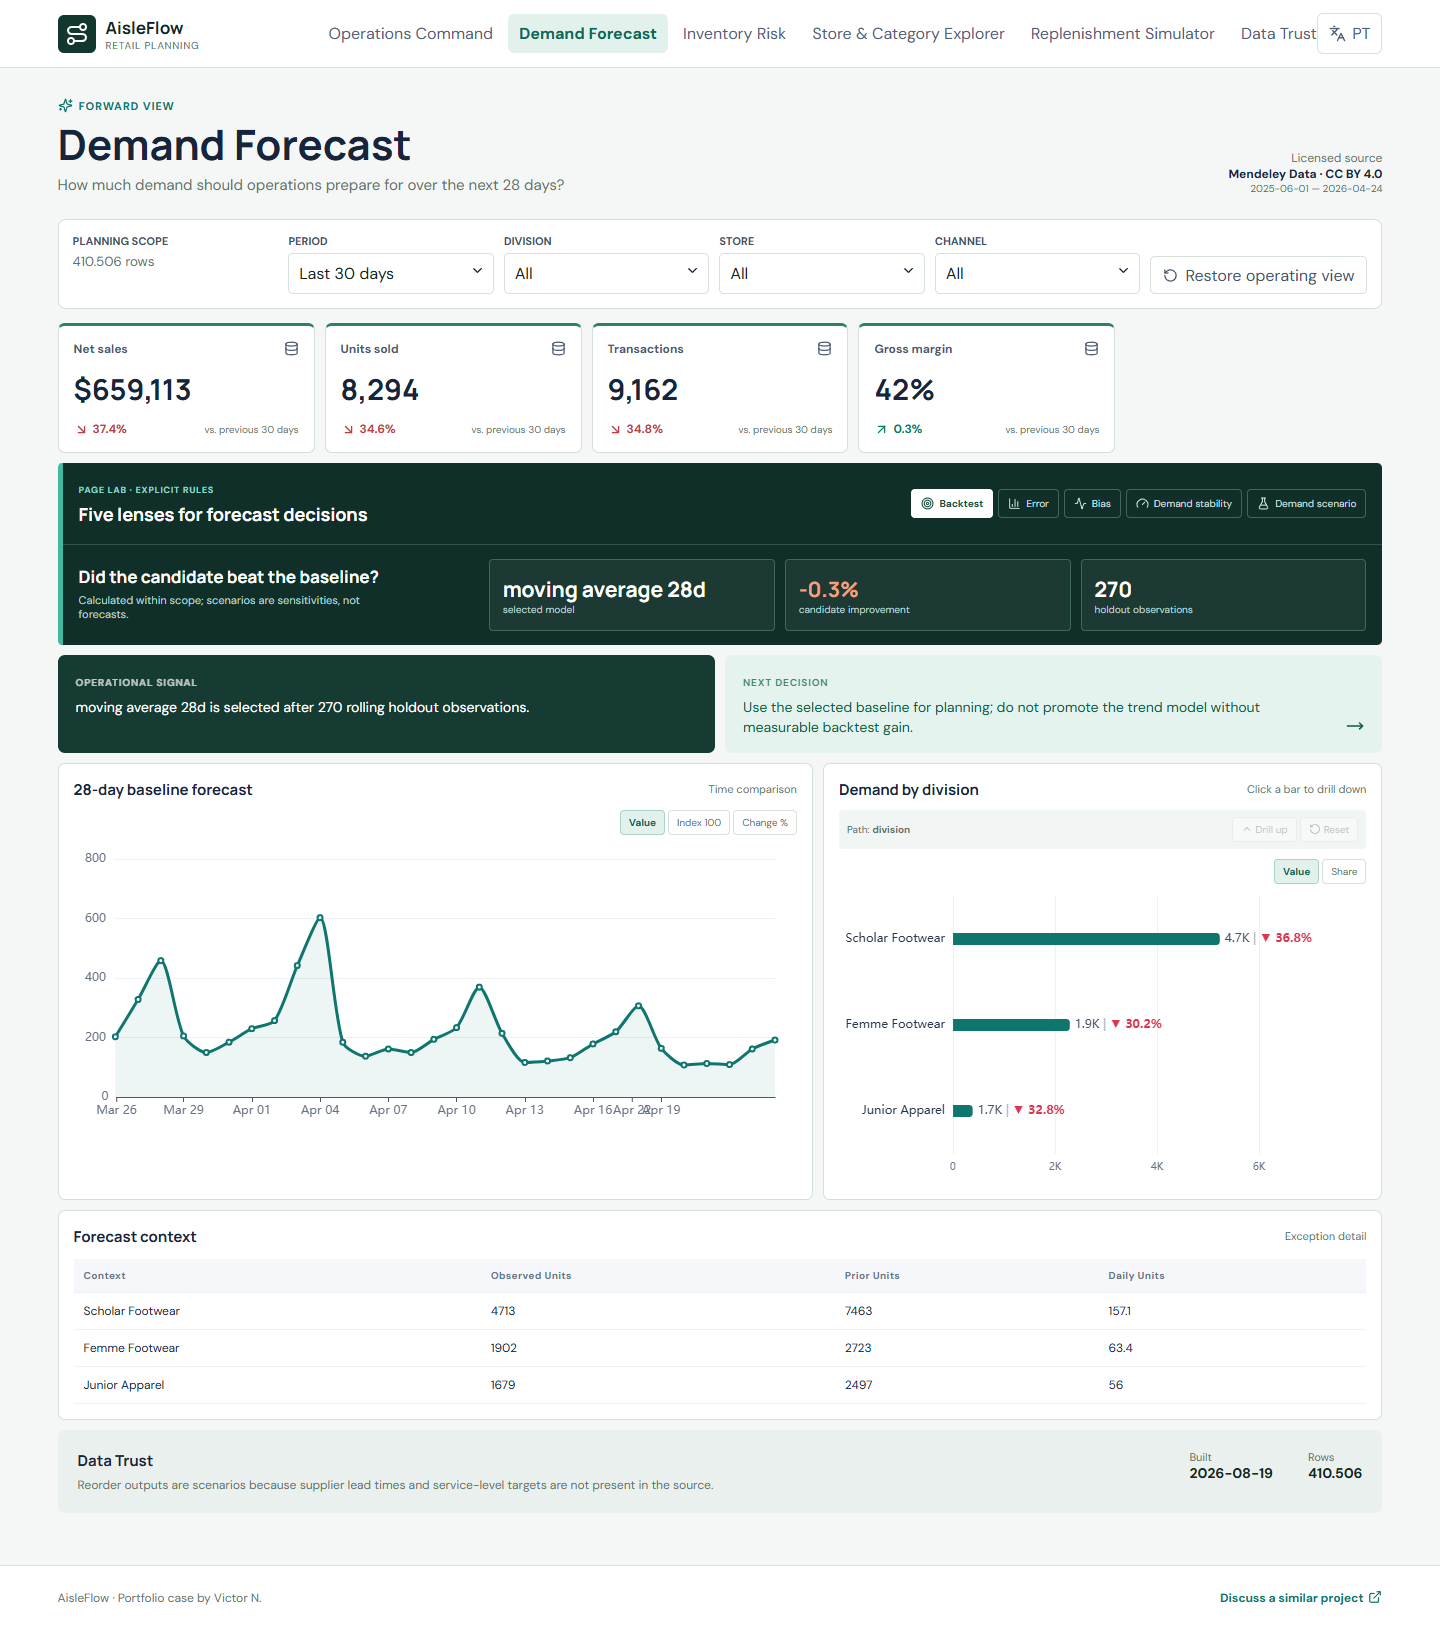
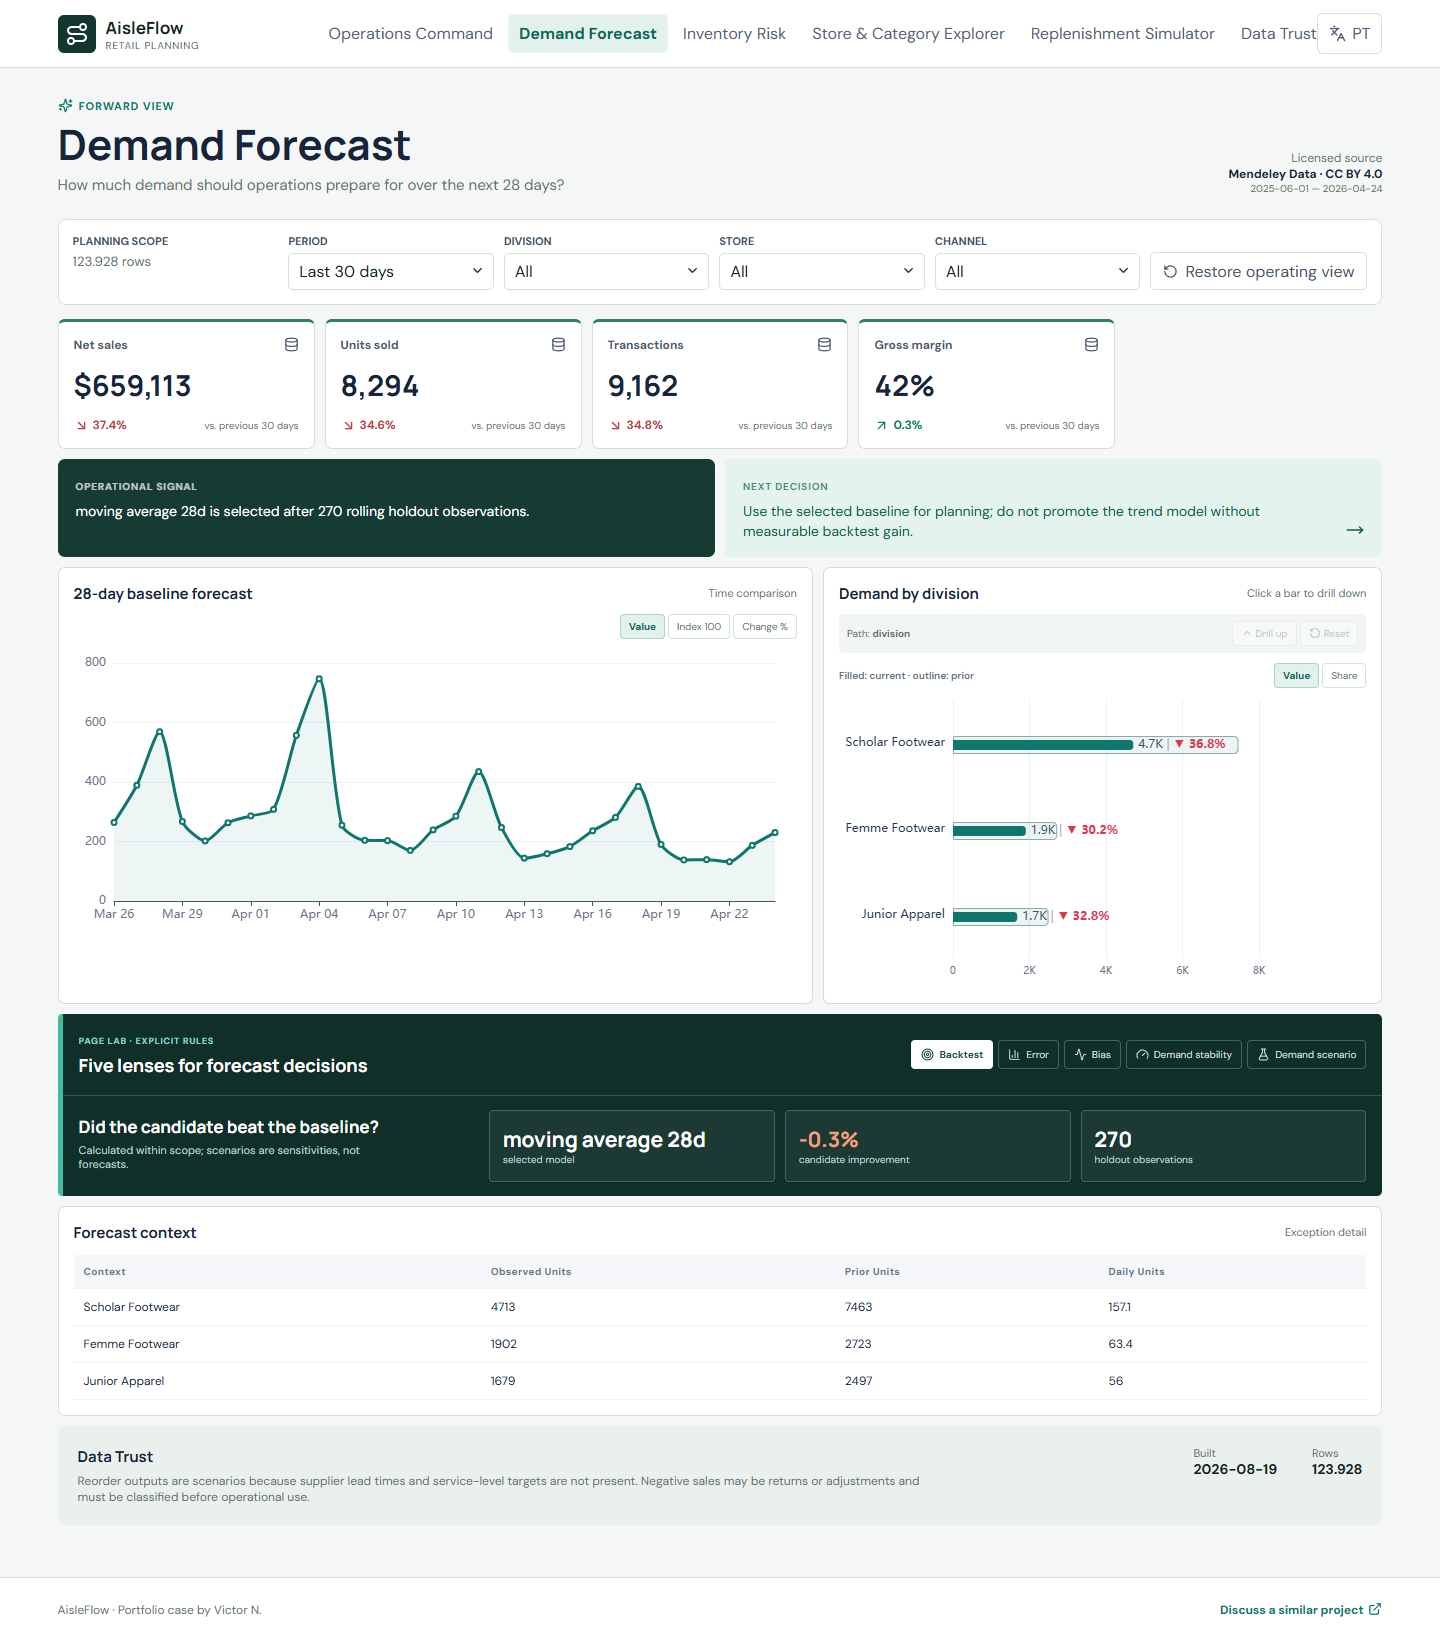
Improve dashboard hierarchy and visual comparisons

diff --git a/src/components.tsx b/src/components.tsx
@@ -41,10 +41,12 @@ export function BarChart({ data, lang, onSelect }: { data: BreakdownRow[]; lang:
   const [share,setShare]=useState(false)
   const sorted = [...data].sort((a,b) => a.value - b.value).slice(-8)
   const compact = (value: number) => new Intl.NumberFormat(lang === 'pt' ? 'pt-BR' : 'en-US', { notation: 'compact', maximumFractionDigits: 1 }).format(value)
-  type LabelPoint={data:{value:number;delta:number;hasPrevious?:boolean;isNew?:boolean}}
-  const total=sorted.reduce((s,r)=>s+r.value,0),previousTotal=sorted.reduce((s,r)=>s+(r.previous??0),0),format=(v:number)=>share?`${v.toFixed(1)}%`:compact(v),seriesData=sorted.map(row=>{const value=share?(total?100*row.value/total:0):row.value,hasPrevious=row.previous!==undefined,previous=share?(previousTotal?100*(row.previous??0)/previousTotal:0):(row.previous??0),delta=previous?100*(value-previous)/Math.abs(previous):0;return{value,delta,hasPrevious,isNew:hasPrevious&&previous===0}}),comparison=(p:LabelPoint,rich=false)=>!p.data.hasPrevious?(rich?`{neutral|${lang==='pt'?'sem anterior':'no prior'}}`:(lang==='pt'?'sem anterior':'no prior')):p.data.isNew?(rich?`{new|${lang==='pt'?'nova':'new'}}`:(lang==='pt'?'nova':'new')):rich?`{${p.data.delta>=0?'up':'down'}|${p.data.delta>=0?'▲':'▼'} ${Math.abs(p.data.delta).toFixed(1)}%}`:`${p.data.delta>=0?'▲':'▼'} ${Math.abs(p.data.delta).toFixed(1)}%`,label=(p:LabelPoint)=>`{value|${format(p.data.value)}} {divider||} ${comparison(p,true)}`
-  const option={animationDuration:350,grid:{left:12,right:108,top:12,bottom:12,containLabel:true},tooltip:{trigger:'item',formatter:(p:{name:string}&LabelPoint)=>`${p.name}<br/>${format(p.data.value)} | ${comparison(p)}`},xAxis:{type:'value',splitNumber:3,max:share?100:undefined,splitLine:{lineStyle:{color:'#edf1f7'}},axisLabel:{color:'#697386',fontSize:10,hideOverlap:true,formatter:format}},yAxis:{type:'category',data:sorted.map(d=>d.name),axisLine:{show:false},axisTick:{show:false},axisLabel:{color:'#27364b',width:130,overflow:'truncate'}},series:[{type:'bar',data:seriesData,barWidth:12,itemStyle:{color:'#0f766e',borderRadius:[0,4,4,0]},emphasis:{disabled:true},label:{show:true,position:'right',formatter:label,rich:{value:{color:'#415269'},divider:{color:'#aab4c3'},up:{color:'#07855b',fontWeight:700},down:{color:'#d9364f',fontWeight:700},new:{color:'#1f6feb',fontWeight:700},neutral:{color:'#7c8798'}}}}]}
-  return <><div className="chart-modes"><button className={!share?'active':''} onClick={()=>setShare(false)}>{lang==='pt'?'Valor':'Value'}</button><button className={share?'active':''} onClick={()=>setShare(true)}>{lang==='pt'?'Participação':'Share'}</button></div><div className="chart-viewport"><ReactEChartsCore echarts={echarts} option={option} onEvents={onSelect?{click:(params:{name:string})=>onSelect(params.name)}:undefined} style={{height:300,width:'100%'}}/></div></>
+  type LabelPoint={data:{value:number;previous:number;delta:number;hasPrevious?:boolean;isNew?:boolean}}
+  const total=sorted.reduce((s,r)=>s+r.value,0),previousTotal=sorted.reduce((s,r)=>s+(r.previous??0),0),format=(v:number)=>share?`${v.toFixed(1)}%`:compact(v),seriesData=sorted.map(row=>{const value=share?(total?100*row.value/total:0):row.value,hasPrevious=row.previous!==undefined,previous=share?(previousTotal?100*(row.previous??0)/previousTotal:0):(row.previous??0),delta=previous?100*(value-previous)/Math.abs(previous):0;return{value,previous,delta,hasPrevious,isNew:hasPrevious&&previous===0}}),comparison=(p:LabelPoint,rich=false)=>!p.data.hasPrevious?(rich?`{neutral|${lang==='pt'?'sem anterior':'no prior'}}`:(lang==='pt'?'sem anterior':'no prior')):p.data.isNew?(rich?`{new|${lang==='pt'?'nova':'new'}}`:(lang==='pt'?'nova':'new')):rich?`{${p.data.delta>=0?'up':'down'}|${p.data.delta>=0?'▲':'▼'} ${Math.abs(p.data.delta).toFixed(1)}%}`:`${p.data.delta>=0?'▲':'▼'} ${Math.abs(p.data.delta).toFixed(1)}%`,label=(p:LabelPoint)=>`{value|${format(p.data.value)}} {divider||} ${comparison(p,true)}`
+  const priorSeries={name:lang==='pt'?'Período anterior':'Prior period',type:'bar',data:seriesData.map(row=>row.hasPrevious?row.previous:null),barWidth:18,itemStyle:{color:'rgba(15,118,110,.08)',borderColor:'#8aa9a4',borderWidth:1,borderRadius:[0,4,4,0]},silent:true,tooltip:{show:false},z:1}
+  const currentSeries={name:lang==='pt'?'Período atual':'Current period',type:'bar',data:seriesData,barWidth:10,barGap:'-78%',itemStyle:{color:'#0f766e',borderRadius:[0,4,4,0]},emphasis:{disabled:true},z:2,label:{show:true,position:'right',formatter:label,rich:{value:{color:'#415269'},divider:{color:'#aab4c3'},up:{color:'#07855b',fontWeight:700},down:{color:'#d9364f',fontWeight:700},new:{color:'#1f6feb',fontWeight:700},neutral:{color:'#7c8798'}}}}
+  const option={animationDuration:350,grid:{left:12,right:108,top:12,bottom:12,containLabel:true},tooltip:{trigger:'item',formatter:(p:{name:string}&LabelPoint)=>`${p.name}<br/>${format(p.data.value)} | ${comparison(p)}`},xAxis:{type:'value',splitNumber:3,max:share?100:undefined,splitLine:{lineStyle:{color:'#edf1f7'}},axisLabel:{color:'#697386',fontSize:10,hideOverlap:true,formatter:format}},yAxis:{type:'category',data:sorted.map(d=>d.name),axisLine:{show:false},axisTick:{show:false},axisLabel:{color:'#27364b',width:130,overflow:'truncate'}},series:[priorSeries,currentSeries]}
+  return <><div className="chart-modes"><small className="comparison-key">{lang==='pt'?'Cheio: atual · contorno: anterior':'Filled: current · outline: prior'}</small><button className={!share?'active':''} onClick={()=>setShare(false)}>{lang==='pt'?'Valor':'Value'}</button><button className={share?'active':''} onClick={()=>setShare(true)}>{lang==='pt'?'Participação':'Share'}</button></div><div className="chart-viewport"><ReactEChartsCore echarts={echarts} option={option} onEvents={onSelect?{click:(params:{name:string})=>onSelect(params.name)}:undefined} style={{height:300,width:'100%'}}/></div></>
 }
 
 export function DataGrid({ rows }: { rows: Record<string, string | number>[] }) {

diff --git a/src/styles.css b/src/styles.css
@@ -14,3 +14,5 @@ body{background:#f4f7f5}.brand-mark{border-radius:6px;background:#12372e}.topbar
 @media(max-width:1000px){.filterbar{grid-template-columns:1fr 1fr}.filter-heading{grid-column:1/-1}}@media(max-width:640px){.filterbar{grid-template-columns:1fr}.filter-heading{grid-column:auto}}
 .chart-viewport{width:100%;min-width:0;overflow:hidden}.query-error{margin:10px 0;padding:11px 14px;border:1px solid #e2a9ad;background:#fff2f3;color:var(--red);border-radius:5px}.is-loading{opacity:.58}.simulator{margin:10px 0;display:grid;grid-template-columns:260px 1fr 240px;gap:20px;align-items:center;padding:17px 20px;background:#102f28;color:#fff;border-radius:5px;border-left:5px solid #43b99d}.sim-title{display:flex;gap:12px;align-items:center}.sim-title span{font-size:9px;letter-spacing:.08em;color:#8ed7c4}.sim-title h2{font:700 17px Manrope;margin:4px 0}.sim-controls{display:grid;grid-template-columns:repeat(3,1fr);gap:12px}.sim-controls label{font-size:11px;color:#c8ded7;display:grid;grid-template-columns:1fr auto;gap:6px}.sim-controls input{grid-column:1/-1;accent-color:#43b99d;width:100%}.sim-output{border-left:1px solid #41665d;padding-left:18px;display:grid;grid-template-columns:auto 1fr;gap:2px 8px}.sim-output small{color:#b8d3cc}.sim-output strong{grid-column:1/-1;font:700 21px Manrope;margin-top:3px}.sim-output em{grid-column:1/-1;color:#8eaaa2;font-size:9px;font-style:normal}@media(max-width:1000px){.simulator{grid-template-columns:1fr}.sim-output{border-left:0;padding-left:0}.sim-controls{grid-template-columns:1fr}}
 .ops-lab{margin:10px 0;background:#102f28;color:#fff;border-radius:5px;overflow:hidden;border-left:5px solid #43b99d}.ops-lab-head{padding:14px 16px;display:flex;justify-content:space-between;align-items:center;gap:18px;border-bottom:1px solid #31544c}.ops-lab-head span{font-size:9px;letter-spacing:.08em;color:#8ed7c4;font-weight:700}.ops-lab-head h2{font:700 18px Manrope;margin:4px 0}.ops-lab-head>div:last-child{display:flex;gap:5px;flex-wrap:wrap;justify-content:flex-end}.ops-lab-head button{display:flex;align-items:center;gap:5px;padding:7px 9px;border:1px solid #41665d;background:transparent;color:#c8ded7;border-radius:4px;font-size:10px;cursor:pointer}.ops-lab-head button svg{width:13px;height:13px}.ops-lab-head button.active{background:#fff;color:#174d41;border-color:#fff;font-weight:700}.ops-lab-body{min-height:100px;padding:14px 16px;display:grid;grid-template-columns:1.4fr repeat(3,1fr);gap:10px}.ops-copy{display:flex;flex-direction:column;justify-content:center}.ops-copy b{font:700 17px Manrope}.ops-copy p{font-size:11px;color:#b8d3cc;margin:5px 0;max-width:300px}.ops-lab-body>article,.ops-lab-body>label{padding:11px 13px;border:1px solid #41665d;background:rgba(255,255,255,.05);border-radius:4px;display:flex;flex-direction:column;justify-content:center}.ops-lab-body article strong{font:700 21px Manrope}.ops-lab-body article span{font-size:10px;color:#b8d3cc}.ops-lab-body article.risk{border-color:#d98b68}.ops-lab-body>label{gap:9px;font-size:11px}.ops-lab-body>label span{display:flex;justify-content:space-between}.ops-lab-body input{width:100%;accent-color:#43b99d}.ops-driver-list{grid-column:2/-1;display:grid;gap:7px;align-content:center}.ops-driver-list>div{display:grid;grid-template-columns:105px 1fr 90px;gap:9px;align-items:center;font-size:10px}.ops-driver-list i{height:7px;background:#31544c;border-radius:4px;overflow:hidden}.ops-driver-list i b{display:block;height:100%;background:#43b99d}.ops-driver-list strong{text-align:right}.positive{color:#68d7bb}.negative{color:#f2a081}@media(max-width:1000px){.ops-lab-head{align-items:flex-start;flex-direction:column}.ops-lab-head>div:last-child{justify-content:flex-start}.ops-lab-body{grid-template-columns:1fr 1fr}.ops-copy,.ops-driver-list{grid-column:1/-1}}@media(max-width:640px){.ops-lab-head>div:last-child{display:grid;grid-template-columns:1fr 1fr;width:100%}.ops-lab-head button{justify-content:center}.ops-lab-body{grid-template-columns:1fr}.ops-driver-list>div{grid-template-columns:76px 1fr 72px}}
+.comparison-key{align-self:center;margin-right:auto;color:#66758a;font-size:10px;font-weight:600;white-space:nowrap}
+.chart-viewport{max-width:100%}.chart-viewport>div,.chart-viewport canvas{max-width:100%!important}

diff --git a/src/App.tsx b/src/App.tsx
@@ -59,9 +59,9 @@ export default function App() {
       {queryState==='loading'&&<div className="loading" role="status">{lang==='pt'?'Calculando o recorte selecionado...':'Calculating selected scope...'}</div>}
       {queryState==='error'&&<div className="query-error" role="alert">{lang==='pt'?'Não foi possível recalcular o recorte.':'The selected scope could not be recalculated.'}</div>}
       {queryState==='ready'&&mart&&<><section className="metrics">{metrics.map(metric => {const isSnapshot=snapshotMetrics.has(metric.id);return <MetricCard key={metric.id} metric={metric} lang={lang} prior={isSnapshot?(lang==='pt'?'snapshot atual':'current snapshot'):comparisonLabel} comparisonAvailable={comparisonAvailable&&!isSnapshot} />})}</section>
-      <PageInsight pageId={page.id} values={mart.current} trend={trend} breakdown={breakdown} detail={detail} forecast={forecast} lang={lang}/>
       <section className="decision-strip"><DecisionNote title={t.finding}>{finding}</DecisionNote><DecisionNote title={t.action} action>{action}</DecisionNote></section>
       <section className="analysis-grid"><article className="panel wide"><div className="panel-title"><h2>{page.trendTitle[lang]}</h2><span>{lang==='pt'?'Comparação temporal':'Time comparison'}</span></div><TrendChart data={trend} lang={lang} /></article><article className="panel"><div className="panel-title"><h2>{page.breakdownTitle[lang]}</h2><span>{lang==='pt'?'Clique em uma barra para detalhar':'Click a bar to drill down'}</span></div><div className="drillbar"><span>{lang==='pt'?'Caminho':'Path'}: <b>{mart?.context.dimension??'division'}</b>{drillPath.map(item=><i key={`${item.dimension}-${item.value}`}> / {item.value}</i>)}</span><div><button disabled={!drillPath.length} onClick={()=>setDrillPath(path=>path.slice(0,-1))}><ChevronUp/>{lang==='pt'?'Voltar nível':'Drill up'}</button><button disabled={!drillPath.length} onClick={()=>setDrillPath([])}><RotateCcw/>{lang==='pt'?'Início':'Reset'}</button></div></div><BarChart data={breakdown} lang={lang} onSelect={drill}/></article></section>
+      <PageInsight pageId={page.id} values={mart.current} trend={trend} breakdown={breakdown} detail={detail} forecast={forecast} lang={lang}/>
       <section className="panel detail"><div className="panel-title"><h2>{page.detailTitle[lang]}</h2><span>{t.details}</span></div><DataGrid rows={detail} /></section>
       <section className="trust"><div><h2>{t.trust}</h2><p>{data.meta.limitations[lang]}</p>{page.id === 'trust' && <MartVerifier file="mart_inventory_risk.parquet" lang={lang}/>}</div><div><span>Built</span><b>{data.meta.builtAt}</b></div><div><span>Rows</span><b>{data.meta.rows.toLocaleString()}</b></div></section>
       </>}

diff --git a/docs/DASHBOARD_QUALITY_REVIEW.md b/docs/DASHBOARD_QUALITY_REVIEW.md
@@ -1,0 +1,25 @@
+# Dashboard quality review
+
+## Decision contract
+
+| Page | Primary question | Main evidence | Intended decision |
+| --- | --- | --- | --- |
+| Operations Command | What needs attention before replenishment? | Sales pulse, risk positions and priority queue | Assign owners to inventory exceptions |
+| Demand Forecast | What demand is expected and how uncertain is it? | Baseline, candidate forecast and error comparison | Use a model only when it beats the baseline |
+| Inventory Risk | Where are shortage and excess risks concentrated? | On-hand, target stock, demand and risk class | Prioritize store-SKU review |
+| Store & Category Explorer | Which divisions and stores explain the gap? | Contribution, share and prior-period movement | Focus operational investigation |
+| Replenishment Simulator | How do assumptions change suggested units? | Lead time, safety stock and demand scenario | Test policy assumptions before approval |
+| Data Trust | What is observed versus assumed? | Grain, dates, coverage and model limits | Keep scenarios separate from purchase orders |
+
+## Visual and analytical rules
+
+- KPI cards report period outcomes; exception charts and tables identify where action is needed.
+- Filled marks show the current period and outlined marks show the comparable prior period.
+- Favorable and unfavorable movement uses semantic color, including margin and inventory risk.
+- The five-lens lab separates priority, coverage, drivers, variability and scenario analysis.
+- Reorder quantities are scenarios because supplier lead time and service-level targets are absent.
+- Negative sales remain visible and are treated as possible returns or adjustments, not silently removed.
+
+## Acceptance result
+
+The dashboard passed Python data tests, Vitest component tests, Playwright interaction checks, desktop capture at 1440x900 and mobile capture at 390x844. Forecast claims remain bounded by the source and baseline comparison.

diff --git a/README.md b/README.md
@@ -66,7 +66,7 @@ Validate with `python -m pipeline validate`, `pytest`, `npm test`, `npm run buil
 
 Production implementation would connect ERP sales, inventory snapshots, supplier lead times, service levels, and purchasing constraints. [Discuss a similar project](mailto:victorn198@outlook.com).
 
-See [Portuguese documentation](README.pt-BR.md), [analytical readout](docs/ANALYSIS_READOUT.md), [data audit](docs/DATA_AUDIT.md), [complete dashboard guide](docs/DASHBOARD_GUIDE.md), [metric catalog](docs/METRIC_CATALOG.md), and [demo guide](docs/DEMO_GUIDE.md).
+See [Portuguese documentation](README.pt-BR.md), [analytical readout](docs/ANALYSIS_READOUT.md), [data audit](docs/DATA_AUDIT.md), [dashboard quality review](docs/DASHBOARD_QUALITY_REVIEW.md), [complete dashboard guide](docs/DASHBOARD_GUIDE.md), [metric catalog](docs/METRIC_CATALOG.md), and [demo guide](docs/DEMO_GUIDE.md).
 ## Design innovation
 
 The **Replenishment Simulator** converts filtered demand and stock signals into an editable scenario. Lead time, safety-stock days, and demand variation change the recommendation immediately; the result is explicitly a planning scenario, not an automated purchase order.
